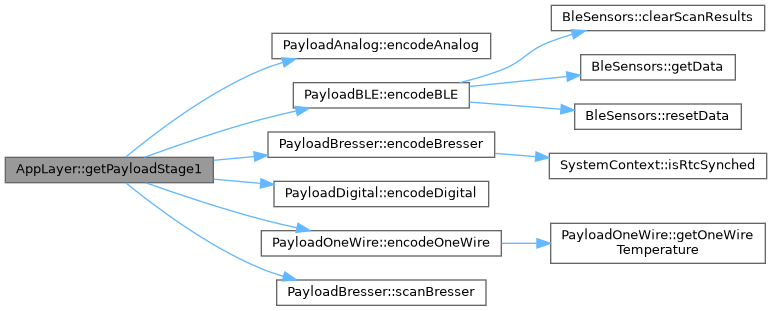
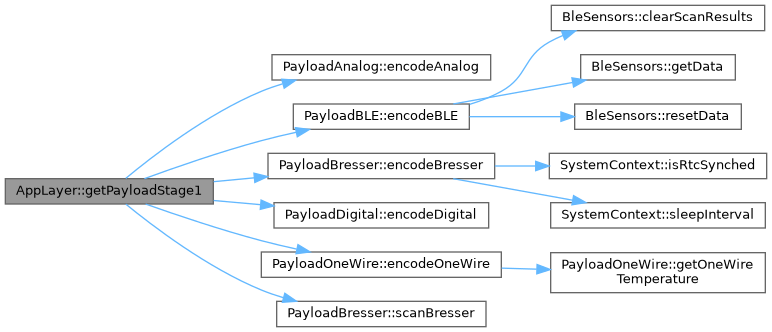
Deploying to gh-pages from @ matthias-bs/BresserWeatherSensorLW@e74d8b58b0710d4faefae43acb2830e177114d4c 🚀

diff --git a/class_app_layer.html b/class_app_layer.html
@@ -517,29 +517,31 @@ Here is the call graph for this function:</div>
 <div class="dyncontent">
 <div class="center"><img src="class_app_layer_a7e3ae1a6f6220caa0592bdc728e6b8ab_cgraph.png" border="0" usemap="#aclass_app_layer_a7e3ae1a6f6220caa0592bdc728e6b8ab_cgraph" alt=""/></div>
 <map name="aclass_app_layer_a7e3ae1a6f6220caa0592bdc728e6b8ab_cgraph" id="aclass_app_layer_a7e3ae1a6f6220caa0592bdc728e6b8ab_cgraph">
-<area shape="rect" title="Prepare / get payload at startup." alt="" coords="5,157,213,183"/>
-<area shape="rect" href="class_payload_analog.html#a9e04f0c62f92287539fd53c9c01d7701" title="Encode analog data channels for LoRaWAN transmission." alt="" coords="272,33,491,59"/>
-<area shape="poly" title=" " alt="" coords="124,155,181,112,220,88,260,68,282,60,283,65,262,72,222,92,184,116,127,159"/>
-<area shape="rect" href="class_payload_b_l_e.html#a89793d96d56ee64855100435d282eeb3" title="Encode BLE temperature/humidity sensor values for LoRaWAN transmission." alt="" coords="293,83,469,108"/>
-<area shape="poly" title=" " alt="" coords="144,155,261,117,296,108,297,114,262,122,145,160"/>
-<area shape="rect" href="class_payload_bresser.html#a03643c8507eda1302c7f9026c65fbe15" title="Encode Bresser sensor data for LoRaWAN transmission." alt="" coords="268,132,495,157"/>
-<area shape="poly" title=" " alt="" coords="213,158,254,154,254,159,214,163"/>
-<area shape="rect" href="class_payload_digital.html#a0aa5d6f61ce07e16da6241f1234faec6" title="Encode digital data channels for LoRaWAN transmission." alt="" coords="274,181,489,207"/>
-<area shape="poly" title=" " alt="" coords="214,177,261,181,260,186,213,182"/>
-<area shape="rect" href="class_payload_one_wire.html#a5043522dafe7a837c962943822ee9cc6" title="Encode 1&#45;Wire temperature sensor values for LoRaWAN transmission." alt="" coords="261,231,501,256"/>
-<area shape="poly" title=" " alt="" coords="146,180,262,217,297,225,296,230,261,222,145,185"/>
-<area shape="rect" href="class_payload_bresser.html#a134c066b8cf0363c761f27e072b4af8b" title="Scan for Bresser sensors." alt="" coords="277,280,486,305"/>
-<area shape="poly" title=" " alt="" coords="127,181,185,223,222,247,262,266,284,274,283,279,260,271,220,251,182,228,124,185"/>
+<area shape="rect" title="Prepare / get payload at startup." alt="" coords="5,179,213,204"/>
+<area shape="rect" href="class_payload_analog.html#a9e04f0c62f92287539fd53c9c01d7701" title="Encode analog data channels for LoRaWAN transmission." alt="" coords="272,55,491,80"/>
+<area shape="poly" title=" " alt="" coords="124,176,181,133,220,109,260,89,282,81,283,86,262,94,222,114,184,137,127,180"/>
+<area shape="rect" href="class_payload_b_l_e.html#a89793d96d56ee64855100435d282eeb3" title="Encode BLE temperature/humidity sensor values for LoRaWAN transmission." alt="" coords="293,104,469,129"/>
+<area shape="poly" title=" " alt="" coords="144,176,261,138,296,130,297,135,262,143,145,181"/>
+<area shape="rect" href="class_payload_bresser.html#a03643c8507eda1302c7f9026c65fbe15" title="Encode Bresser sensor data for LoRaWAN transmission." alt="" coords="268,153,495,179"/>
+<area shape="poly" title=" " alt="" coords="213,179,254,175,254,180,214,184"/>
+<area shape="rect" href="class_payload_digital.html#a0aa5d6f61ce07e16da6241f1234faec6" title="Encode digital data channels for LoRaWAN transmission." alt="" coords="274,203,489,228"/>
+<area shape="poly" title=" " alt="" coords="214,198,261,202,260,207,213,203"/>
+<area shape="rect" href="class_payload_one_wire.html#a5043522dafe7a837c962943822ee9cc6" title="Encode 1&#45;Wire temperature sensor values for LoRaWAN transmission." alt="" coords="261,252,501,277"/>
+<area shape="poly" title=" " alt="" coords="146,202,262,238,297,247,296,252,261,243,145,207"/>
+<area shape="rect" href="class_payload_bresser.html#a134c066b8cf0363c761f27e072b4af8b" title="Scan for Bresser sensors." alt="" coords="277,301,486,327"/>
+<area shape="poly" title=" " alt="" coords="127,202,185,244,222,268,262,288,284,295,283,300,260,292,220,273,182,249,124,206"/>
 <area shape="rect" href="class_ble_sensors.html#a02b6268f0eb8262bd19d4647b34fd588" title="Delete results from BLEScan buffer to release memory." alt="" coords="551,5,765,31"/>
-<area shape="poly" title=" " alt="" coords="459,80,500,68,524,54,548,40,571,32,573,37,550,44,527,58,502,72,460,85"/>
+<area shape="poly" title=" " alt="" coords="469,102,500,89,514,78,523,65,532,52,548,40,562,33,564,38,551,44,536,56,528,68,518,81,503,94,471,107"/>
 <area shape="rect" href="class_ble_sensors.html#afbf84629a4b746d732b66141f0387655" title="Get data from sensors by running a BLE scan." alt="" coords="581,55,735,80"/>
-<area shape="poly" title=" " alt="" coords="469,84,566,74,567,79,470,89"/>
+<area shape="poly" title=" " alt="" coords="453,101,572,80,573,85,454,107"/>
 <area shape="rect" href="class_ble_sensors.html#ae98eb8bb9a7cf676f340123abf89a1f6" title="Set sensor data invalid." alt="" coords="575,104,741,129"/>
-<area shape="poly" title=" " alt="" coords="470,99,561,107,561,112,469,105"/>
+<area shape="poly" title=" " alt="" coords="469,114,561,114,561,119,469,119"/>
 <area shape="rect" href="class_system_context.html#a525c50b9ae13e4a7d7922ee291599d80" title="Check if the RTC is synchronized to a time source." alt="" coords="549,153,767,179"/>
-<area shape="poly" title=" " alt="" coords="495,151,536,154,535,159,495,156"/>
-<area shape="rect" href="class_payload_one_wire.html#ab81e478ce922fe2bfc31d4dd9a3ec6d6" title="Get temperature from Maxim OneWire Sensor." alt="" coords="551,223,765,263"/>
-<area shape="poly" title=" " alt="" coords="502,241,537,241,537,246,502,246"/>
+<area shape="poly" title=" " alt="" coords="495,163,536,163,536,169,495,169"/>
+<area shape="rect" href="class_system_context.html#adab68d5365b6b041da52686434ce5510" title="Switch between normal and long sleep interval." alt="" coords="551,203,765,228"/>
+<area shape="poly" title=" " alt="" coords="454,176,573,198,572,203,453,181"/>
+<area shape="rect" href="class_payload_one_wire.html#ab81e478ce922fe2bfc31d4dd9a3ec6d6" title="Get temperature from Maxim OneWire Sensor." alt="" coords="551,253,765,293"/>
+<area shape="poly" title=" " alt="" coords="502,265,537,266,537,272,502,271"/>
 </map>
 </div>
 

diff --git a/_payload_bresser_8h_source.html b/_payload_bresser_8h_source.html
@@ -277,8 +277,8 @@ $(document).ready(function(){initNavTree('_payload_bresser_8h_source.html',''); 
 </div>
 <div class="line"><a id="l00199" name="l00199"></a><span class="lineno">  199</span><span class="preprocessor">#endif </span><span class="comment">//_PAYLOAD_BRESSER</span></div>
 <div class="ttc" id="aclass_payload_bresser_html"><div class="ttname"><a href="class_payload_bresser.html">PayloadBresser</a></div><div class="ttdef"><b>Definition</b> PayloadBresser.h:75</div></div>
-<div class="ttc" id="aclass_payload_bresser_html_a03643c8507eda1302c7f9026c65fbe15"><div class="ttname"><a href="class_payload_bresser.html#a03643c8507eda1302c7f9026c65fbe15">PayloadBresser::encodeBresser</a></div><div class="ttdeci">void encodeBresser(uint8_t *appPayloadCfg, uint8_t *appStatus, LoraEncoder &amp;encoder)</div><div class="ttdoc">Encode Bresser sensor data for LoRaWAN transmission.</div><div class="ttdef"><b>Definition</b> PayloadBresser.cpp:162</div></div>
-<div class="ttc" id="aclass_payload_bresser_html_a134c066b8cf0363c761f27e072b4af8b"><div class="ttname"><a href="class_payload_bresser.html#a134c066b8cf0363c761f27e072b4af8b">PayloadBresser::scanBresser</a></div><div class="ttdeci">void scanBresser(uint8_t ws_scantime, LoraEncoder &amp;encoder)</div><div class="ttdoc">Scan for Bresser sensors.</div><div class="ttdef"><b>Definition</b> PayloadBresser.cpp:97</div></div>
+<div class="ttc" id="aclass_payload_bresser_html_a03643c8507eda1302c7f9026c65fbe15"><div class="ttname"><a href="class_payload_bresser.html#a03643c8507eda1302c7f9026c65fbe15">PayloadBresser::encodeBresser</a></div><div class="ttdeci">void encodeBresser(uint8_t *appPayloadCfg, uint8_t *appStatus, LoraEncoder &amp;encoder)</div><div class="ttdoc">Encode Bresser sensor data for LoRaWAN transmission.</div><div class="ttdef"><b>Definition</b> PayloadBresser.cpp:163</div></div>
+<div class="ttc" id="aclass_payload_bresser_html_a134c066b8cf0363c761f27e072b4af8b"><div class="ttname"><a href="class_payload_bresser.html#a134c066b8cf0363c761f27e072b4af8b">PayloadBresser::scanBresser</a></div><div class="ttdeci">void scanBresser(uint8_t ws_scantime, LoraEncoder &amp;encoder)</div><div class="ttdoc">Scan for Bresser sensors.</div><div class="ttdef"><b>Definition</b> PayloadBresser.cpp:98</div></div>
 <div class="ttc" id="aclass_payload_bresser_html_a2fd10d65e59d33b74f5e38968d048fca"><div class="ttname"><a href="class_payload_bresser.html#a2fd10d65e59d33b74f5e38968d048fca">PayloadBresser::PayloadBresser</a></div><div class="ttdeci">PayloadBresser(SystemContext *sysCtx)</div><div class="ttdoc">Constructor.</div><div class="ttdef"><b>Definition</b> PayloadBresser.h:155</div></div>
 <div class="ttc" id="aclass_payload_bresser_html_a450c9313611e82b01486a2c1279a7fca"><div class="ttname"><a href="class_payload_bresser.html#a450c9313611e82b01486a2c1279a7fca">PayloadBresser::ws_scantime</a></div><div class="ttdeci">uint8_t ws_scantime</div><div class="ttdoc">Weather Sensor Scan Request.</div><div class="ttdef"><b>Definition</b> PayloadBresser.h:81</div></div>
 <div class="ttc" id="aclass_payload_bresser_html_a7262003f3dc4341ed826fdb64ba0ac5a"><div class="ttname"><a href="class_payload_bresser.html#a7262003f3dc4341ed826fdb64ba0ac5a">PayloadBresser::weatherSensor</a></div><div class="ttdeci">WeatherSensor weatherSensor</div><div class="ttdoc">Bresser Weather Sensor Receiver.</div><div class="ttdef"><b>Definition</b> PayloadBresser.h:78</div></div>

diff --git a/class_payload_bresser.html b/class_payload_bresser.html
@@ -198,9 +198,11 @@ Here is the call graph for this function:</div>
 <div class="dyncontent">
 <div class="center"><img src="class_payload_bresser_a03643c8507eda1302c7f9026c65fbe15_cgraph.png" border="0" usemap="#aclass_payload_bresser_a03643c8507eda1302c7f9026c65fbe15_cgraph" alt=""/></div>
 <map name="aclass_payload_bresser_a03643c8507eda1302c7f9026c65fbe15_cgraph" id="aclass_payload_bresser_a03643c8507eda1302c7f9026c65fbe15_cgraph">
-<area shape="rect" title="Encode Bresser sensor data for LoRaWAN transmission." alt="" coords="5,5,232,31"/>
+<area shape="rect" title="Encode Bresser sensor data for LoRaWAN transmission." alt="" coords="5,31,232,56"/>
 <area shape="rect" href="class_system_context.html#a525c50b9ae13e4a7d7922ee291599d80" title="Check if the RTC is synchronized to a time source." alt="" coords="280,5,497,31"/>
-<area shape="poly" title=" " alt="" coords="232,15,266,15,266,21,232,21"/>
+<area shape="poly" title=" " alt="" coords="232,30,266,27,267,32,232,35"/>
+<area shape="rect" href="class_system_context.html#adab68d5365b6b041da52686434ce5510" title="Switch between normal and long sleep interval." alt="" coords="281,55,496,80"/>
+<area shape="poly" title=" " alt="" coords="232,51,268,54,267,59,232,56"/>
 </map>
 </div>
 
